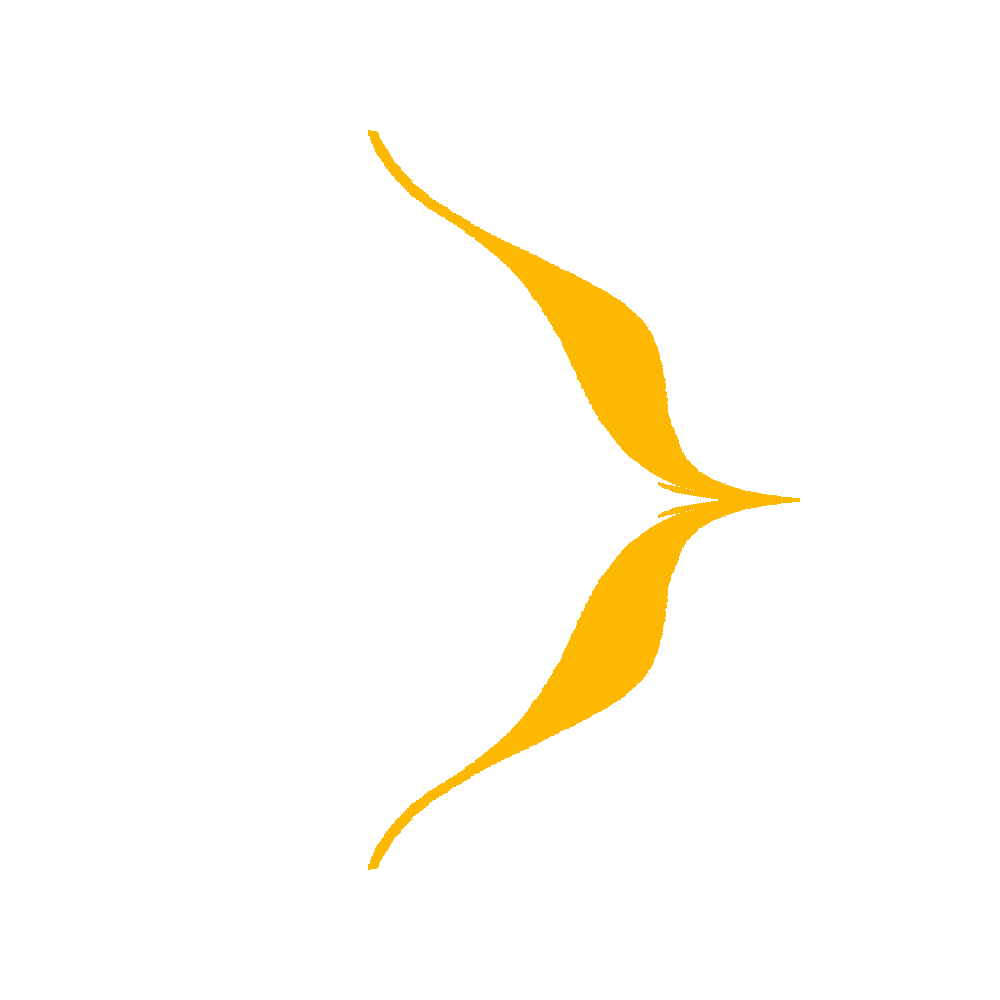
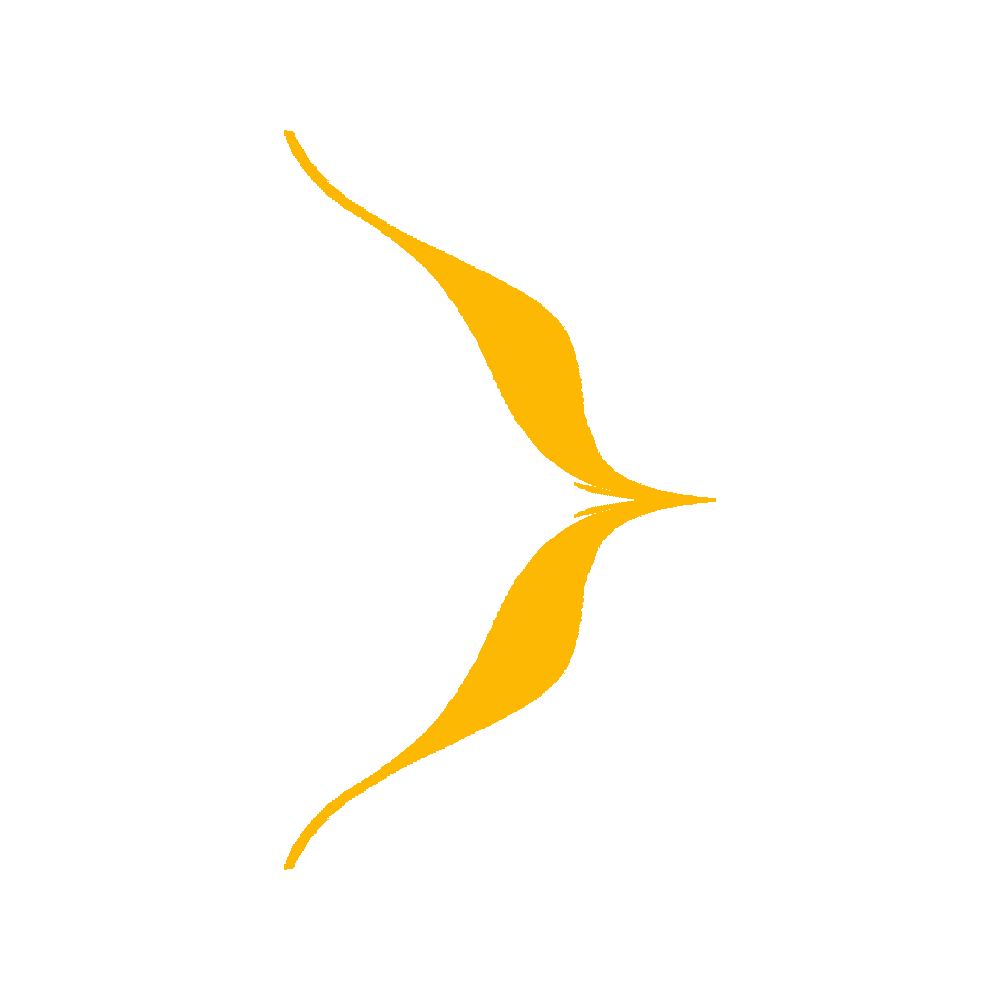
w after w after w

diff --git a/src/pool.ts b/src/pool.ts
@@ -58,8 +58,9 @@ export class Pool {
     private spikeShadowInstances: any = {};
 
     // Spine
-    private numBones = 180;
+    private numBones = 200;
     private targetPositions: THREE.Vector3[] = Array.from({ length: this.numBones / this.spikeFrequency }, () => new THREE.Vector3());
+    private shadowTargetPositions: THREE.Vector3[] = Array.from({ length: this.numBones / this.spikeFrequency }, () => new THREE.Vector3());
     private targetRotations: THREE.Quaternion[] = Array.from({ length: this.numBones / this.spikeFrequency }, () => new THREE.Quaternion());
 
     private lineGeometry = new THREE.BufferGeometry().setAttribute('position', new THREE.BufferAttribute(new Float32Array((this.numBones + 1) * 3), 3));
@@ -391,7 +392,7 @@ export class Pool {
 
     private async createSoulShadow(): Promise<void> {
         const loader = new THREE.TextureLoader();
-        loader.load('src/env/@black.png', (texture) => {
+        loader.load('src/env/@line.png', (texture) => {
             const material = new THREE.MeshBasicMaterial({
                 map: texture,
                 transparent: true,
@@ -470,19 +471,22 @@ export class Pool {
 
     private async createSpikeShadowInstances(): Promise<void> {
         const loader = new THREE.TextureLoader();
-        loader.load('src/env/{y.png', (texture) => {
+        loader.load('src/env/{ssmall.png', (texture) => {
             const material = new THREE.MeshBasicMaterial({
                 map: texture,
                 transparent: true,
+
             });
-            const geometry = new THREE.PlaneGeometry(.17, .17);
+            //material.blending = THREE.AdditiveBlending;
+            material.depthWrite = false;
+            const geometry = new THREE.PlaneGeometry(.2, .2);
 
             this.spikeShadowInstances = new THREE.InstancedMesh(
                 geometry,
                 material,
                 this.numBones / this.spikeFrequency
             );
-            const scale = new THREE.Vector3(1); // Scale factor of 2
+            const scale = new THREE.Vector3(1);
             const position = new THREE.Vector3(0.5, 0.5, 0); // Set position to 0, 0, 0
             const rotation = new THREE.Euler(0, 0, 0); // Set rotation to 0, 0, 0
             const quaternion = new THREE.Quaternion().setFromEuler(rotation); // Convert Euler to Quaternion
@@ -525,7 +529,9 @@ export class Pool {
     }
 
     private spikeInstanceMatrix: THREE.Matrix4 = new THREE.Matrix4();
+    private spikeShadowInstanceMatrix: THREE.Matrix4 = new THREE.Matrix4();
     private currentScale: THREE.Vector3 = new THREE.Vector3();
+    private shadowScale: THREE.Vector3 = new THREE.Vector3(1, 1, 1);
 
     private updateSpikeInstances(): void {
         if (this.spikeInstances && this.spikeInstances.count > 0) {
@@ -552,11 +558,16 @@ export class Pool {
                 this.spikeInstances.setMatrixAt(i, this.spikeInstanceMatrix);
                 this.spikeInstances.instanceMatrix.needsUpdate = true;
 
+                const shadowTargetPosition = this.shadowTargetPositions[i];
+                this.spikeShadowInstanceMatrix.compose(shadowTargetPosition, targetRotation, this.shadowScale);
+                this.spikeShadowInstances.setMatrixAt(i, this.spikeShadowInstanceMatrix);
+                this.spikeShadowInstances.instanceMatrix.needsUpdate = true;
             }
         }
     }
 
     private position: THREE.Vector3 = new THREE.Vector3();
+    private shadowPosition = new THREE.Vector3();
     private quaternion: THREE.Quaternion = new THREE.Quaternion();
     private axis: THREE.Vector3 = new THREE.Vector3(0, 0, 1);
 
@@ -571,7 +582,12 @@ export class Pool {
                 this.position.set(
                     bone.origin.x / window.innerWidth,
                     (window.innerHeight - bone.origin.y) / window.innerHeight,
-                    0.5 - 0.01 * instanceIndex
+                    0.8 - 0.013 * instanceIndex
+                );
+                this.shadowPosition.set(
+                    bone.origin.x / window.innerWidth,
+                    (window.innerHeight - bone.origin.y) / window.innerHeight,
+                    0.75 - 0.013 * instanceIndex
                 );
                 const prevBone = bones[i - 1];
                 const prevX = prevBone.origin.x / window.innerWidth;
@@ -581,6 +597,7 @@ export class Pool {
                 let angle = Math.atan2(deltaY, deltaX)
                 this.quaternion.setFromAxisAngle(this.axis, angle + Math.PI);
                 this.targetPositions[instanceIndex].copy(this.position);
+                this.shadowTargetPositions[instanceIndex].copy(this.shadowPosition);
                 this.targetRotations[instanceIndex].copy(this.quaternion);
             }
             this.updateSpikeInstances();
@@ -606,9 +623,9 @@ export class Pool {
             const deltaY = positions[j + 1] - prevY;
             const angle = Math.atan2(deltaY, deltaX);
             if (i === 1 && this.soul) {
-                this.soul.position.set(positions[j], positions[j + 1], .5);
+                this.soul.position.set(positions[j], positions[j + 1], .85);
                 this.soul.rotation.set(0, 0, angle - (Math.PI / 2 + 0.1));
-                this.soulShadow.position.set(positions[j], positions[j + 1], .49);
+                this.soulShadow.position.set(positions[j], positions[j + 1], .8);
                 this.soulShadow.rotation.set(0, 0, angle - (Math.PI / 2 + 0.1));
             }
             if (i === bones.length - 7 && this.tail) {
